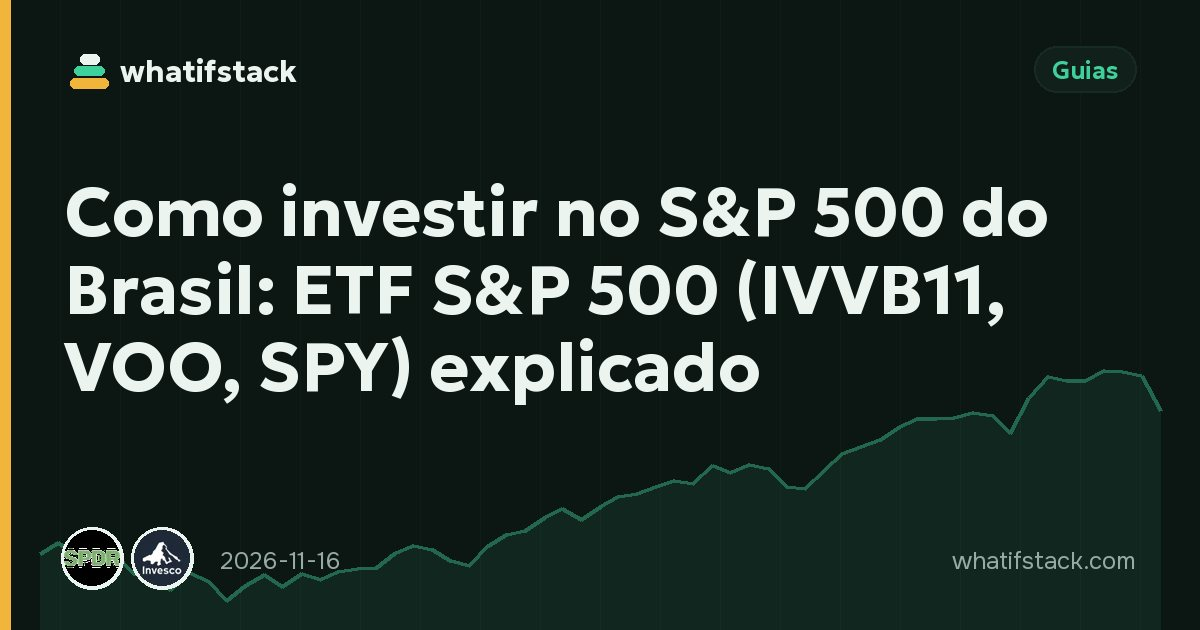
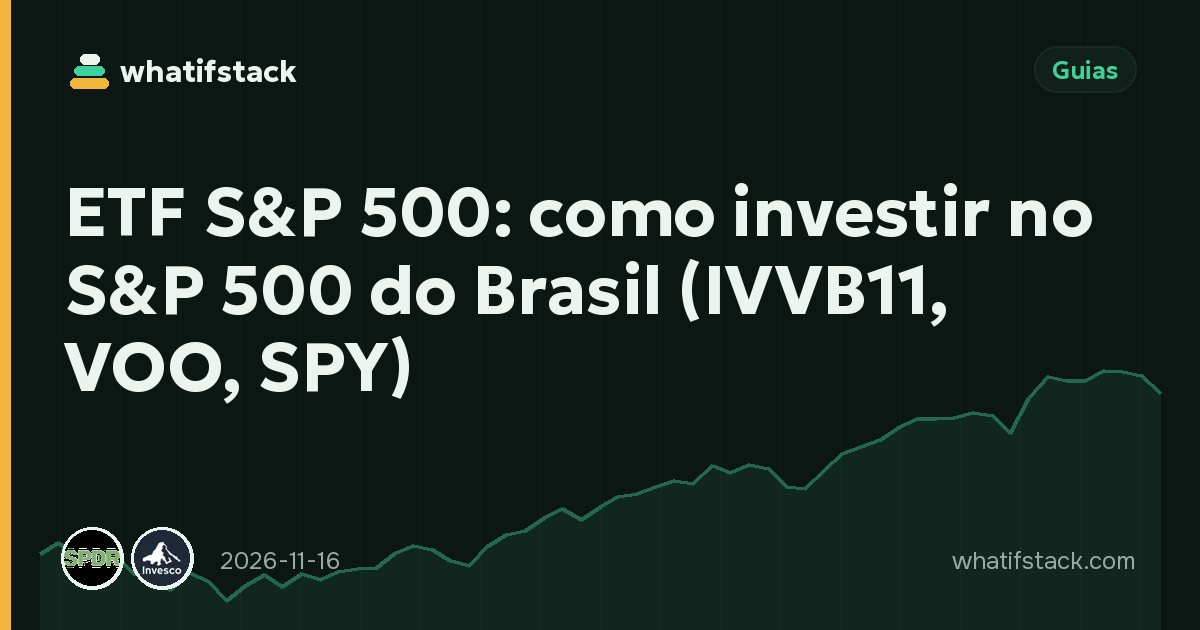
SEO: 5 pages (pt/how-to-invest-in-sp500, ru/what-is-ethereum, es/pt/fr how-to-buy-bitcoin)

diff --git a/social/seo-log.md b/social/seo-log.md
@@ -10,8 +10,14 @@ date | url | query | impressions | position | CTR | what changed | result after 
 2026-11-23 | /th/blog/how-to-invest-in-sp500/ | วิธีซื้อกองทุน s&p 500 (13 / 16.8); s p500 etf 10 / 6.5; sp 500 etf 6 / 8.0 | 76 | 32.8 | 0 % | title «วิธีซื้อกองทุน S&P 500 สำหรับคนไทย: 2 ทางเลือก, ETF อย่าง SPY/VOO และค่าใช้จ่าย», description, new first paragraph answering the 2 ways (Thai fund in THB / foreign broker ETF); new cover. Live check OK | due 2026-12-07
 2026-11-23 | /es/blog/what-is-a-dex/ | dex crypto (13 / 32.1); que es un dex crypto 12 / 32.2; dex cripto 10 / 32.3; dex criptomonedas 8 / 35.4 | 52 | 33.6 | 0 % | title «Qué es un DEX en cripto: cómo funciona un exchange descentralizado frente a un CEX», description (0,05–1 % per swap), first sentence «¿Qué es un DEX en cripto?»; new cover. Live check OK | due 2026-12-07
 2026-11-23 | /ru/largest-companies/ + /tr/largest-companies/ (world page, all 20 languages) | крупнейшие компании мира по капитализации (87 / 8.8); dünyanın en büyük şirketleri 2026 (14 / 7.2) | 87 + 52 | 8.8 / 16.8 | 0 % | owner «так»: own meta description per language (scripts/i18n_lcw.py LCW: year + top 3 + number of companies) instead of the shared generic lead | due 2026-12-07
+2026-11-24 | /pt/blog/how-to-invest-in-sp500/ | s p500 etf (191 / 9.7); sp500 etf 51 / 8.1; investir sp500 6 / 24.0; investir no s&p 500 3 / 39.3 | 256 | 11.2 | 0 % | title «ETF S&P 500: como investir no S&P 500 do Brasil (IVVB11, VOO, SPY)», description (IVVB11 taxa 0,23 %, 5 passos), lead now answers first: buy an ETF S&P 500 — IVVB11 on B3 or VOO/IVV/SPY abroad; new cover. Live check OK (no raw {{ }}, 390 px OK) | due 2026-12-08
+2026-11-24 | /ru/blog/what-is-ethereum/ | ethereum криптовалюта (10 / 38.2); криптовалюта ethereum 8 / 52.6; эфириум 3 / 51.3; эфириум валюта 4 / 56.0 | 49 | 52.0 | 0 % | title «Криптовалюта Ethereum (эфириум): что это такое и чем отличается от биткоина», description (с 2015 года, −99,95 % энергии), first sentence «Что такое криптовалюта Ethereum… — это криптовалюта и глобальная сеть, запущенная в 2015 году»; new cover. Live check OK | due 2026-12-08
+2026-11-24 | /es/blog/how-to-buy-bitcoin/ | como comprar bitcoin (30 / 29.3); comprar bitcoin 26 / 25.0; como comprar bitcoins 21 / 24.5; bitcoins como comprar 11 / 25.1 | 119 | 29.7 | 0 % | title + lead already match and answer → only description («Cómo comprar bitcoin (o bitcoins) en 6 pasos … desde 10 €»). Live check OK | due 2026-12-08
+2026-11-24 | /pt/blog/how-to-buy-bitcoin/ | como comprar bitcoin (shared with es); como comprar criptomoedas 8 / 29.9; melhor forma de comprar bitcoin 3 / 39.7 | 33 | 31.0 | 0 % | title + lead already match → only description («Como comprar bitcoin e outras criptomoedas em 6 passos … a partir de R$ 50»). Live check OK | due 2026-12-08
+2026-11-24 | /fr/blog/how-to-buy-bitcoin/ | acheter bitcoin (11 / 30.4); comment acheter des bitcoins 7 / 44.0; comment acheter du bitcoin 5 / 39.4; achat bitcoin 5 / 38.2 | 50 | 37.1 | 0 % | title + lead already match → only description («Comment acheter du Bitcoin en 6 étapes … dès 10 €»). Live check OK | due 2026-12-08
 
 ## Notes (not changed — template/code pages, for the owner)
+- 2026-11-24: /zh/largest-companies/dividend/ 129 impr / pos 2.1 / 0 clicks and /zh/blog/how-to-invest-in-ai-stocks/ 58 / 1.4, /zh/blog/how-much-to-invest-per-month/ 57 / 1.5 — top positions but 0 clicks; Search Console hides most of their queries (anonymised), so nothing to target yet. /pt/converter/ now 486 impr / pos 7 — same junk-query pattern as the other converter hubs.
 - 2026-11-23: converter hubs /it/ /fr/ /es/ /ru/ /ja/converter/ have the most impressions (290 / 226 / 166 / 158 / 132, pos 9–16, 0 clicks) but only for junk queries («<bank> mobile apps», operator searches) — no real demand to target.
 - 2026-11-23: /en/crypto-exchanges/ 89 impr / pos 25 («biggest / largest crypto exchanges») is noindex by the owner's choice (hidden since 2026-11-20).
 - 2026-11-23: /ru/largest-companies/ 87 / 8.8 («крупнейшие компании мира по капитализации») and /tr/largest-companies/ 52 / 16.8 («dünyanın en büyük şirketleri 2026» 14 / 7.2) — title already matches; the meta description is the shared generic `lead` in scripts/i18n_lc.py, → done 2026-11-23 (owner «так», LCW).

diff --git a/content/blog/ru/what-is-ethereum.md b/content/blog/ru/what-is-ethereum.md
@@ -1,11 +1,11 @@
 ---
-title: Что такое Ethereum (эфириум) и чем он отличается от биткоина — простыми словами
-description: Что такое Ethereum простыми словами: смарт-контракты, комиссии за газ, стейкинг, чем эфириум отличается от биткоина и какие глубокие обвалы цены он пережил.
+title: "Криптовалюта Ethereum (эфириум): что это такое и чем отличается от биткоина"
+description: "Что такое криптовалюта Ethereum простыми словами: сеть с 2015 года, смарт-контракты, газ, стейкинг вместо майнинга (−99,95% энергии) и отличия от биткоина."
 date: 2026-11-16
 category: guides
 assets: eth, btc
 ---
-Что такое Ethereum простыми словами? **Ethereum** (эфириум) — это глобальная сеть, в которой работают программы, которые никто не может отключить. Биткоин создавали в первую очередь как цифровые деньги. Ethereum задумали как общий компьютер: через него отправляют деньги, а ещё запускают приложения для обмена, займов, игр, цифровых коллекций и стейблкоинов.
+Что такое криптовалюта Ethereum простыми словами? **Ethereum** (эфириум) — это криптовалюта и глобальная сеть, запущенная в 2015 году, в которой работают программы, которые никто не может отключить. Биткоин создавали в первую очередь как цифровые деньги. Ethereum задумали как общий компьютер: через него отправляют деньги, а ещё запускают приложения для обмена, займов, игр, цифровых коллекций и стейблкоинов.
 
 Собственная монета сети называется **ether (ETH)**, или просто эфир. Один ETH сейчас стоит {{price:eth}}, и, как и биткоин, его можно разделить на мелкие части — так что купить можно и совсем небольшую сумму.
 

diff --git a/content/blog/pt/how-to-invest-in-sp500.md b/content/blog/pt/how-to-invest-in-sp500.md
@@ -1,11 +1,11 @@
 ---
-title: "Como investir no S&P 500 do Brasil: ETF S&P 500 (IVVB11, VOO, SPY) explicado"
-description: Como investir no S&P 500 a partir do Brasil: o que é o índice, qual ETF S&P 500 comprar (IVVB11 na B3, VOO ou SPY nos EUA), quanto custa e quanto rendeu comprar todo mês.
+title: "ETF S&P 500: como investir no S&P 500 do Brasil (IVVB11, VOO, SPY)"
+description: "ETF S&P 500 para quem está no Brasil: IVVB11 na B3 (taxa 0,23%) ou VOO e SPY nos EUA, 5 passos para comprar, custos e quanto rendeu investir todo mês."
 date: 2026-11-16
 category: guides
 assets: spy, qqq, gold
 ---
-**Como investir no S&P 500?** Primeiro, o que ele é: o S&P 500 é uma lista com cerca de 500 das maiores empresas listadas nos Estados Unidos — Apple, Microsoft, Nvidia, Amazon e centenas de outras. Quando alguém diz que "a bolsa americana subiu hoje", normalmente está falando desse índice.
+**Como investir no S&P 500?** O jeito mais simples é comprar um **ETF S&P 500**, um fundo que copia o índice: no Brasil, o **IVVB11** na B3, em reais; ou **VOO**, **IVV** e **SPY** por uma corretora internacional. O S&P 500 é uma lista com cerca de 500 das maiores empresas dos Estados Unidos — Apple, Microsoft, Nvidia, Amazon e centenas de outras; quando alguém diz que "a bolsa americana subiu hoje", normalmente está falando desse índice.
 
 Não dá para comprar um índice diretamente. Mas dá para comprar um fundo que copia o índice, e essa é uma das formas mais simples de ter um pedacinho de centenas de grandes empresas de uma vez.
 

diff --git a/content/blog/fr/how-to-buy-bitcoin.md b/content/blog/fr/how-to-buy-bitcoin.md
@@ -1,6 +1,6 @@
 ---
 title: Comment acheter du Bitcoin en 2026 : 6 étapes sûres, dès 10 € (débutant)
-description: Comment acheter du Bitcoin en 2026 : plateforme agréée MiCA, vérification, dépôt, achat dès 10 €, achats programmés et sécurité. Guide débutant.
+description: "Comment acheter du Bitcoin en 6 étapes : plateforme agréée MiCA, vérification, dépôt en euros, premier achat dès 10 €, achats programmés et sécurité."
 date: 2026-11-15
 category: guides
 assets: btc, eth

diff --git a/content/blog/es/how-to-buy-bitcoin.md b/content/blog/es/how-to-buy-bitcoin.md
@@ -1,6 +1,6 @@
 ---
 title: Cómo comprar bitcoin en 2026: 6 pasos seguros, desde 10 €, sin errores
-description: Cómo comprar bitcoin paso a paso en 2026: exchange regulado, verificación, depósito, compra desde 10 €, compras periódicas y seguridad.
+description: "Cómo comprar bitcoin (o bitcoins) en 6 pasos: exchange regulado, verificación, depósito, primera compra desde 10 €, compra periódica y cómo guardarlos."
 date: 2026-11-15
 category: guides
 assets: btc, eth

diff --git a/content/blog/pt/how-to-buy-bitcoin.md b/content/blog/pt/how-to-buy-bitcoin.md
@@ -1,6 +1,6 @@
 ---
 title: Como comprar bitcoin em 2026: 6 passos seguros, a partir de R$ 50
-description: Como comprar bitcoin passo a passo em 2026: corretora autorizada, verificação, Pix, compra a partir de R$ 50, compras recorrentes e segurança.
+description: "Como comprar bitcoin e outras criptomoedas em 6 passos: corretora autorizada, Pix, primeira compra a partir de R$ 50, compra recorrente e como guardar seguro."
 date: 2026-11-15
 category: guides
 assets: btc, eth
